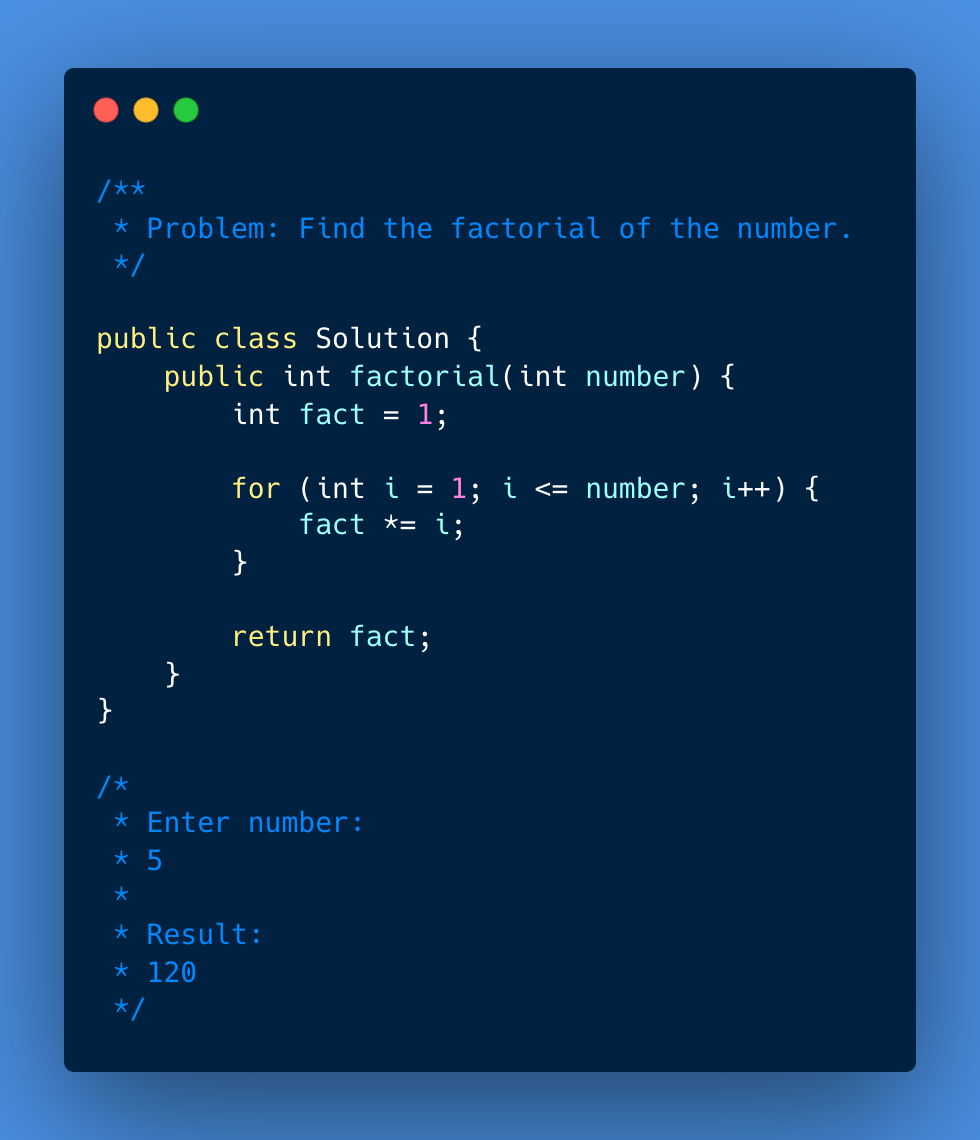
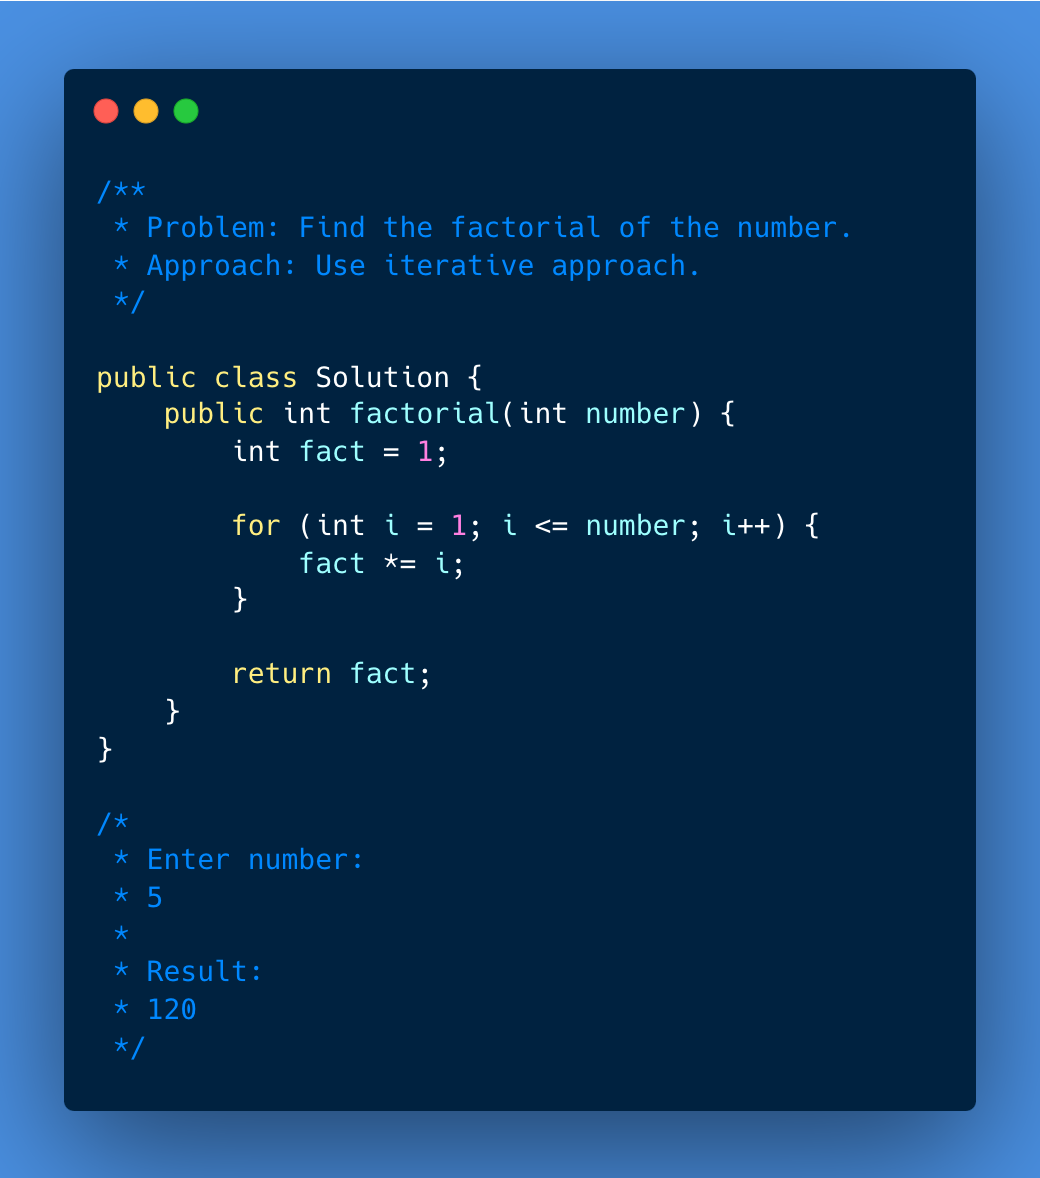
Factorial: Iteration and Recursion Approach

diff --git a/019-factorial/001-solution/Solution.java b/019-factorial/001-solution/Solution.java
@@ -1,5 +1,6 @@
 /**
  * Problem: Find the factorial of the number.
+ * Approach: Use iterative approach.
  */
 
 public class Solution {

diff --git a/019-factorial/002-solution/Solution.java b/019-factorial/002-solution/Solution.java
@@ -1,5 +1,6 @@
 /**
  * Problem: Find the factorial of the number.
+ * Approach: Use recursive approach.
  */
 
 public class Solution {
